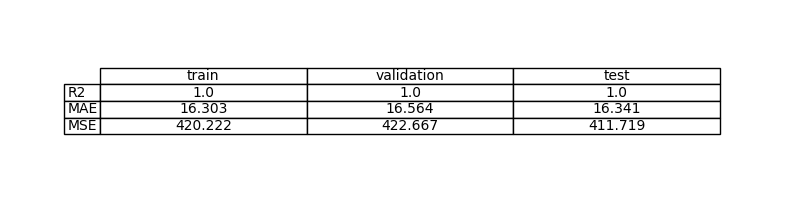
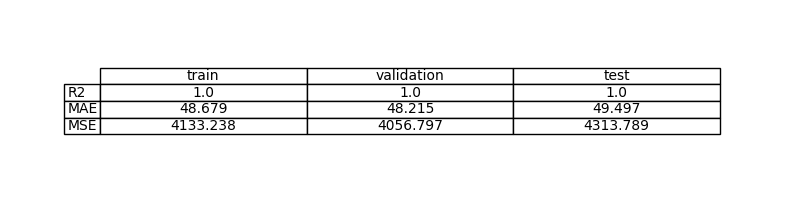
Redes de los ejercicios 2 y 3

diff --git a/src/exercise_03/dataset.py b/src/exercise_03/dataset.py
@@ -23,12 +23,15 @@ class NoisyRegressionDataset(Dataset):
         # Reshape for PyTorch compatibility
         self.x = self.x.reshape((-1, 1))
         self.y = self.y.reshape((-1, 1))
+        
+        # Preserve a copy of the raw (unnormalized) inputs for later denormalization
+        self.x_raw = self.x.copy()
 
     def plot(self, filepath):
         ax = sns.scatterplot(self.df, x="x", y="y")
         ax.set_title("Synthetic noisy data of y=5*x+2")
         plt.savefig(filepath)
-        plt.show()
+        plt.show(block=False)
 
     def __len__(self):
         return len(self.x)
@@ -37,6 +40,16 @@ class NoisyRegressionDataset(Dataset):
         return torch.tensor(self.x[idx], dtype=torch.float32), torch.tensor(
             self.y[idx], dtype=torch.float32
         )
+    def denormalize_x(self, x_array: np.ndarray) -> np.ndarray:
+        """If the dataset has been normalized, convert x_array back to original scale.
+
+        x_array can be a numpy array of shape (N,1) or (N,).
+        """
+        # If no normalization parameters are present, return input unchanged
+        if not hasattr(self, "x_mean") or not hasattr(self, "x_std"):
+            return x_array
+        return x_array * float(self.x_std) + float(self.x_mean)
+
 
 
 if __name__ == "__main__":

diff --git a/src/exercise_03/run_pipeline.py b/src/exercise_03/run_pipeline.py
@@ -1,0 +1,43 @@
+"""
+Sequential pipeline runner for exercise_02: dataset -> model -> train -> evaluate
+"""
+
+import subprocess
+import sys
+
+
+def run_module(module_name: str) -> int:
+    """Run a Python module and return exit code."""
+    print(f"\n{'=' * 60}")
+    print(f"Running: {module_name}")
+    print(f"{'=' * 60}\n")
+    result = subprocess.run(
+        [sys.executable, "-m", module_name],
+        cwd=".",
+    )
+    return result.returncode
+
+
+def main():
+    """Execute pipeline modules sequentially."""
+    modules = [
+        "src.exercise_03.dataset",
+        "src.exercise_03.model",
+        "src.exercise_03.train",
+        "src.exercise_03.evaluate",
+    ]
+
+    for module in modules:
+        exit_code = run_module(module)
+        if exit_code != 0:
+            print(f"\n❌ Error: {module} failed with exit code {exit_code}")
+            return exit_code
+
+    print(f"\n{'=' * 60}")
+    print("✅ Full pipeline completed successfully!")
+    print(f"{'=' * 60}\n")
+    return 0
+
+
+if __name__ == "__main__":
+    sys.exit(main())

diff --git a/src/exercise_03/model.py b/src/exercise_03/model.py
@@ -3,7 +3,7 @@ import torch.nn as nn
 
 
 class SimplePerceptron(nn.Module):
-    def __init__(self, input_dim, output_dim, hidden_dim=8):
+    def __init__(self, input_dim, output_dim, hidden_dim=16):
         super().__init__()
         # Deeper network with more capacity for quadratic approximation
         self.fc1 = nn.Linear(input_dim, hidden_dim)

diff --git a/src/exercise_03/train.py b/src/exercise_03/train.py
@@ -69,7 +69,7 @@ def train_model(output_folder: Path, device: torch.device):
     optimizer = optim.Adam(model.parameters(), lr=0.001)
 
     # Training loop with validation and saving best weights
-    num_epochs = 60
+    num_epochs = 100
     best_val_loss = float("inf")
     best_model_path = output_folder / "best_model.pth"
 

diff --git a/src/exercise_02/dataset.py b/src/exercise_02/dataset.py
@@ -30,7 +30,7 @@ class NoisyRegressionDataset(Dataset):
         ax = sns.scatterplot(self.df, x="x", y="y")
         ax.set_title("Synthetic noisy data of y=-3*x^2+5*x")
         plt.savefig(filepath)
-        plt.show()
+        plt.show(block=False)
 
     def __len__(self):
         return len(self.x)
